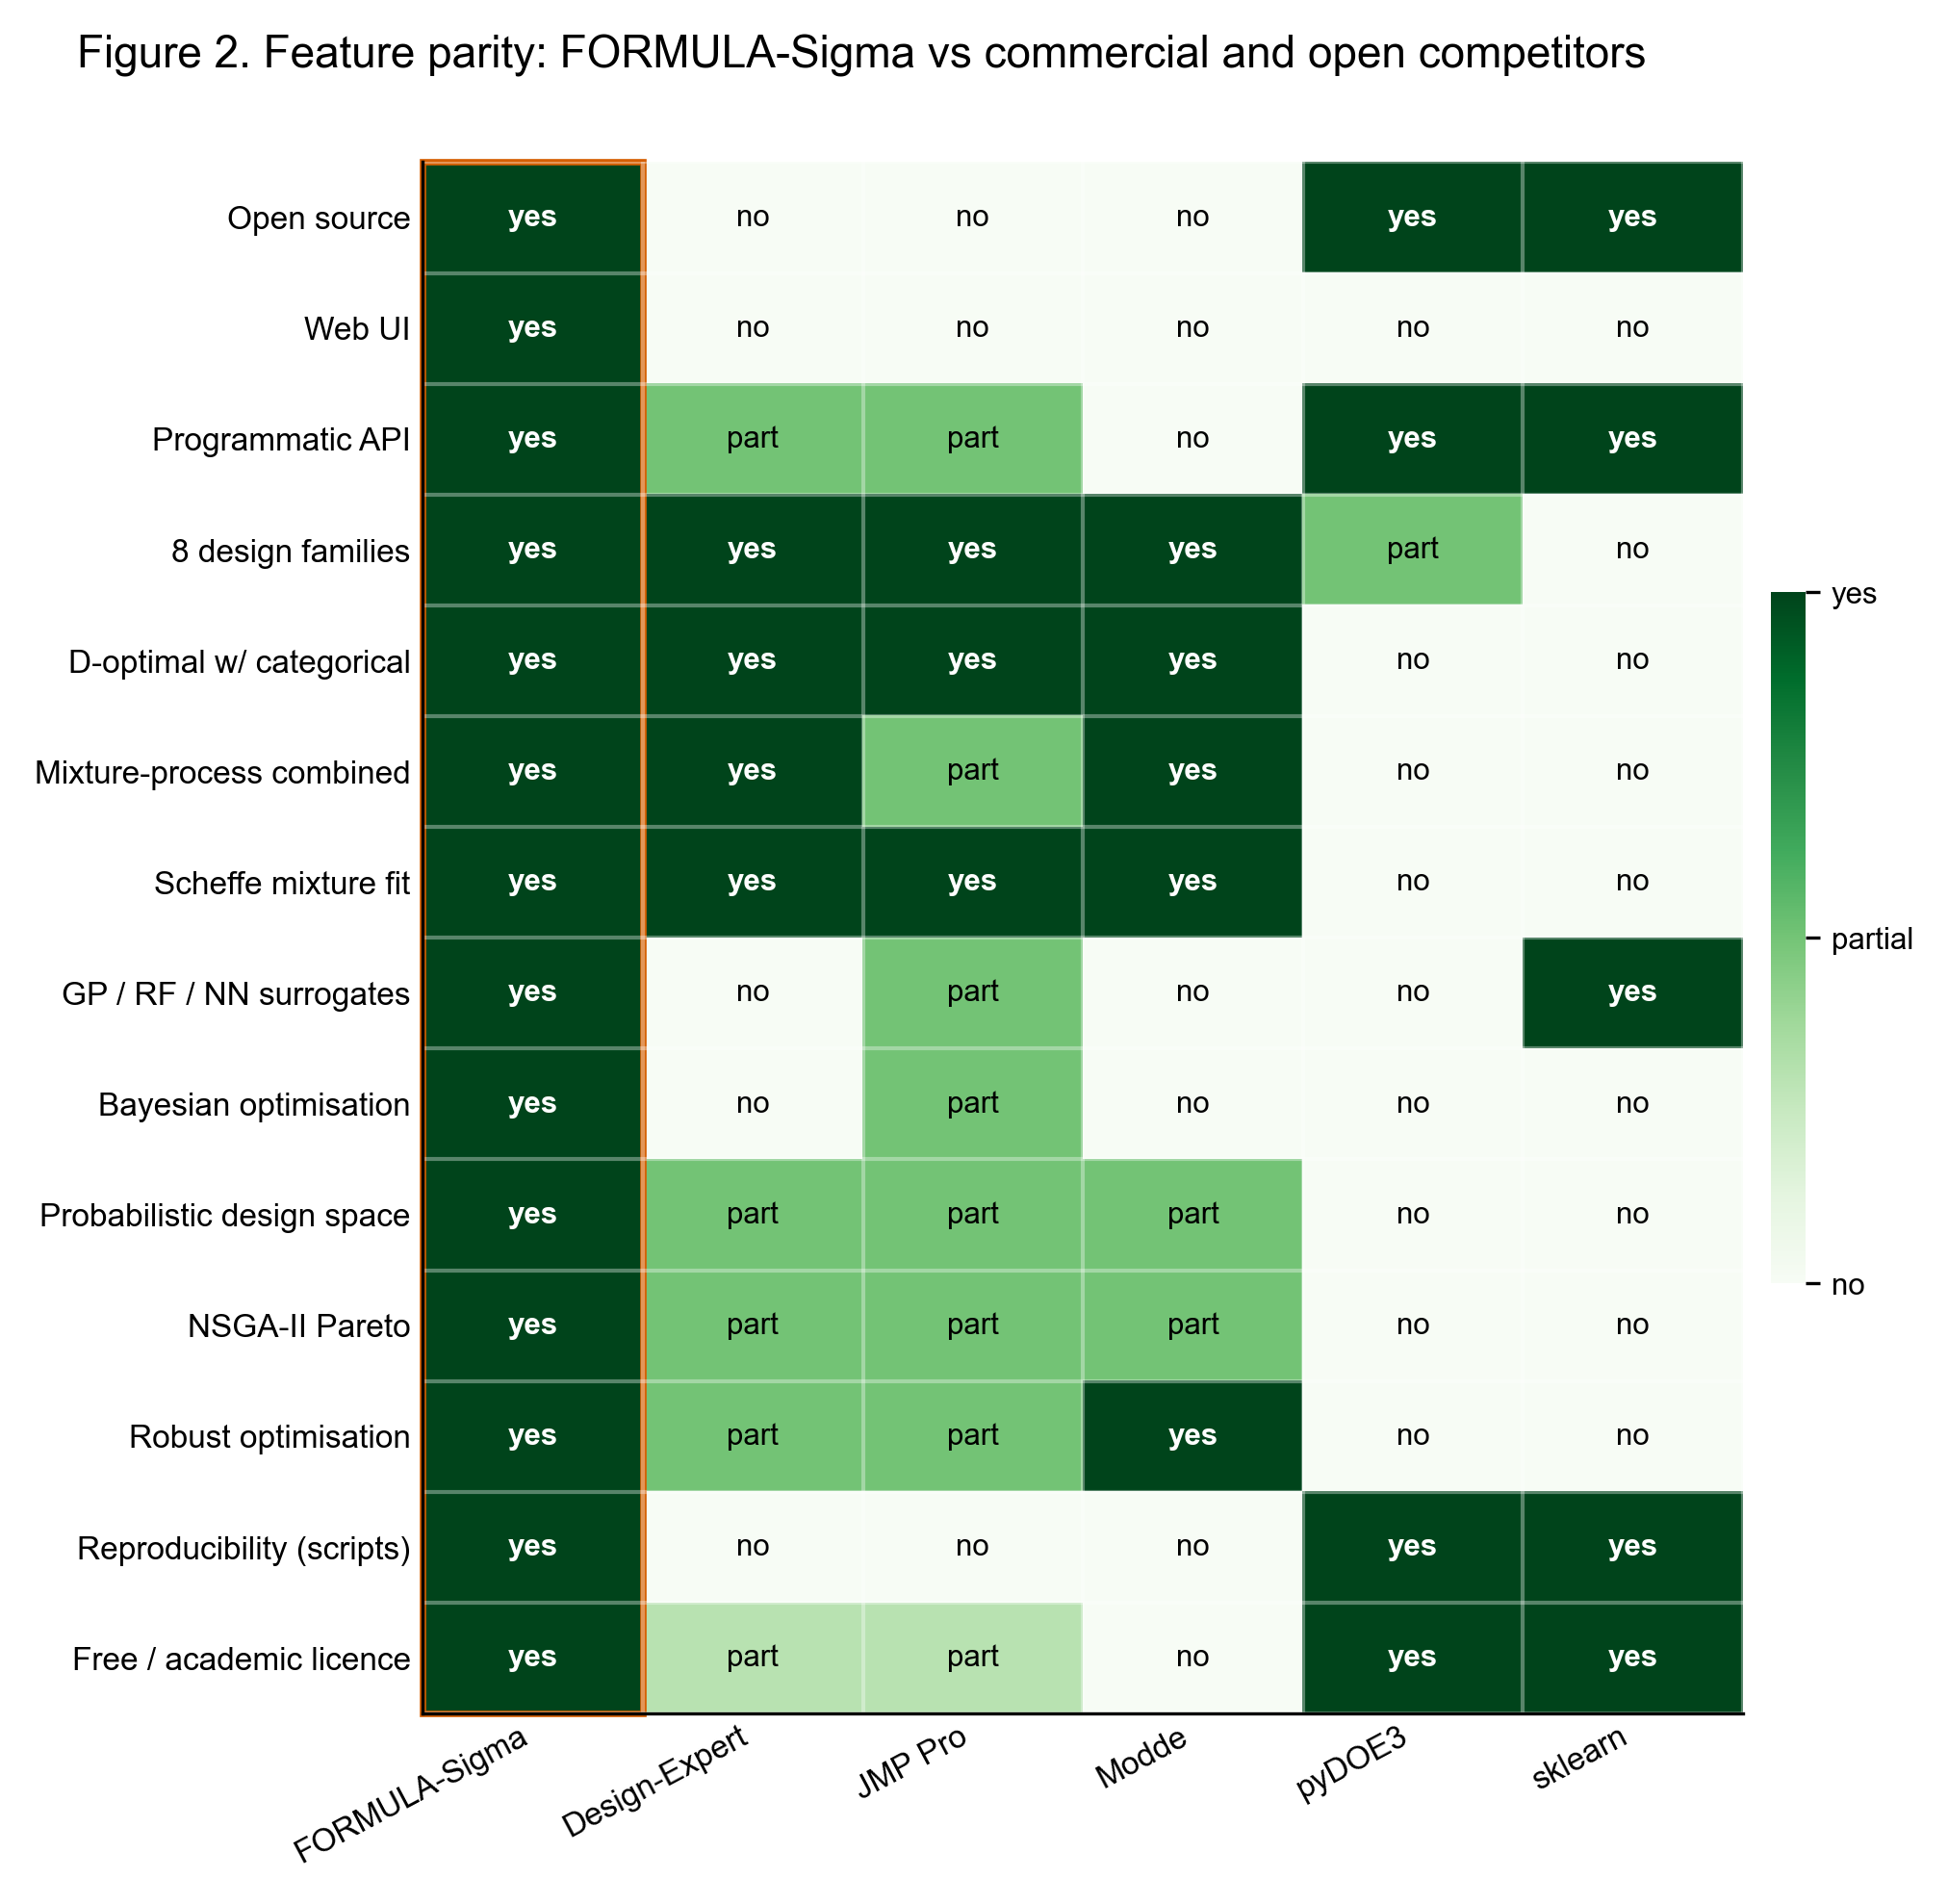
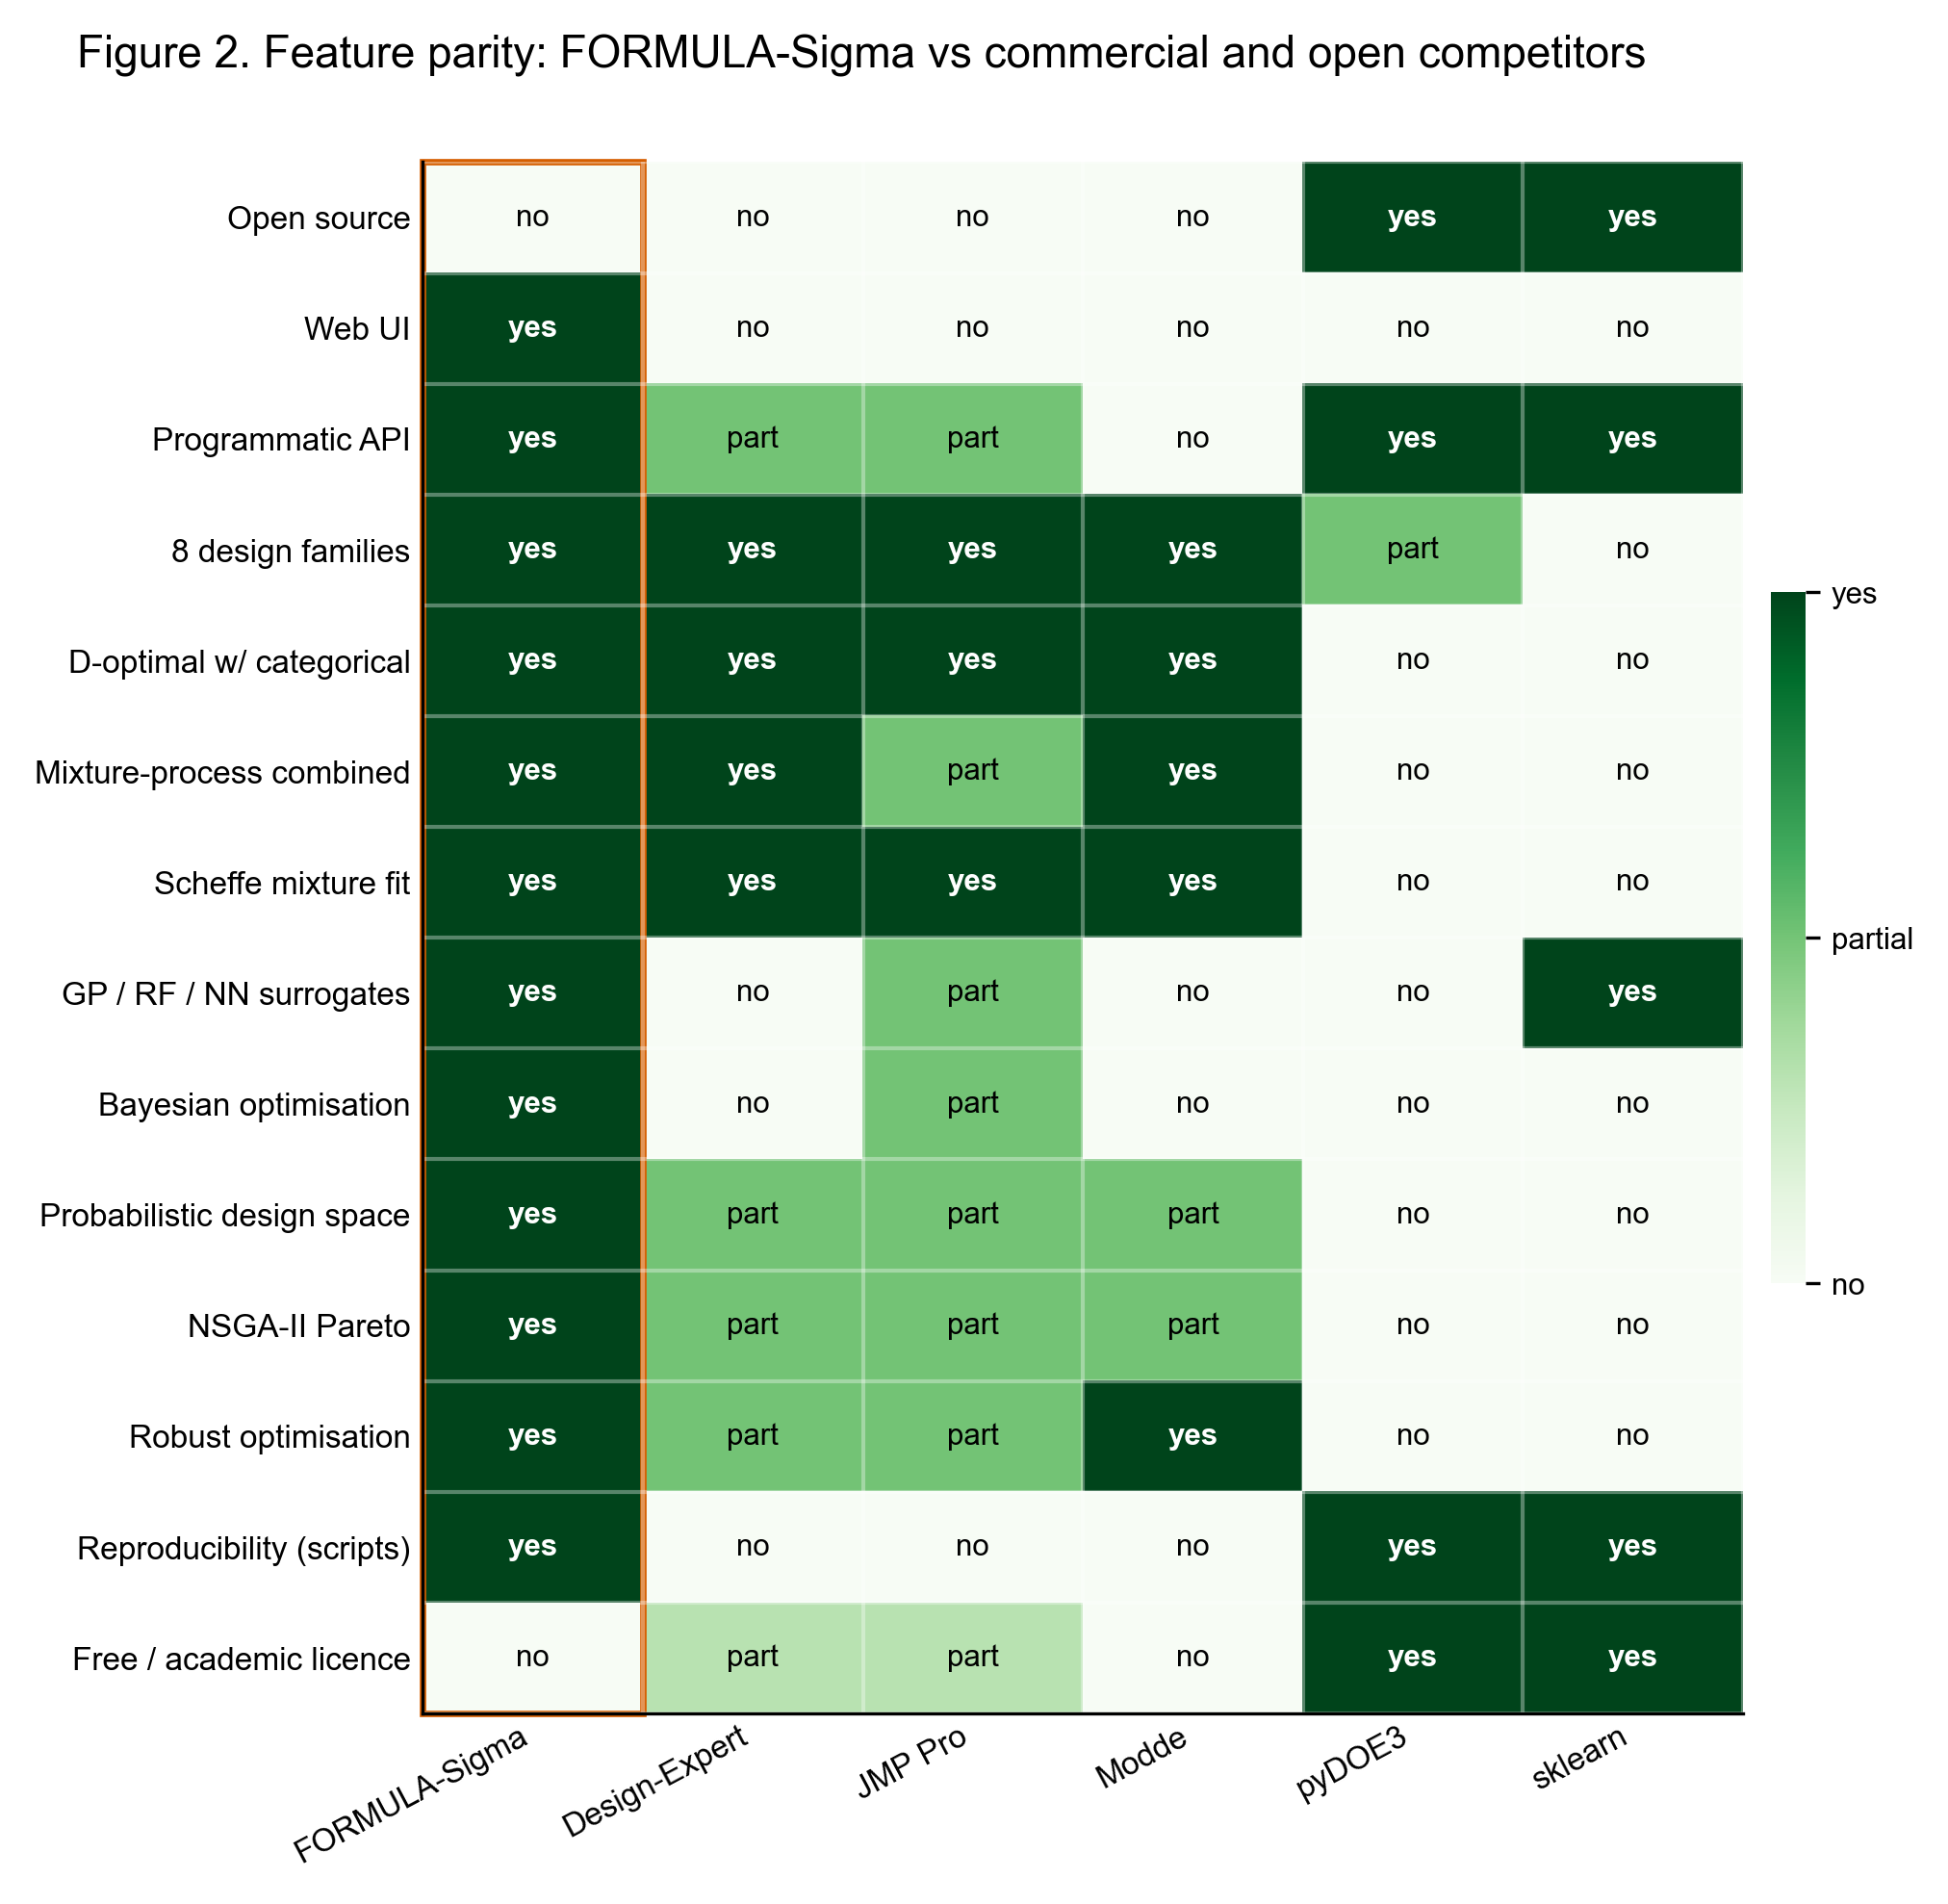
Fix case-study citations: correct author names and PMC identifiers
Verified all five retrospective case sources against PubMed/PMC:
- Case 1: corrected "Sharma 2020" to Farooqi et al. 2020 (PMC7705261 is the
  Farooqi metoclopramide osmotic-pump CCD; the data match its published optimum)
- Case 2: corrected PMC9505712 to PMC9695558 (Arif et al. 2022)
- Case 3: corrected PMC10301437 to PMC10458560 (Boscolo et al. 2023)
- Case 4: corrected PMC9559089 to PMC9477486 (Nemr et al. 2022)
- Case 1b unchanged (Akhtar et al. 2024, PMC10837631)

Also: removed leaked internal dev paths and stale audit reference from the data
README, and corrected the Open source / Free feature-matrix rows (the platform
is proprietary).

Changed region(s): [[0.2179, 0.0617, 0.3424, 0.1542], [0.2179, 0.8327, 0.3424, 0.9252]]

diff --git a/04_experiments/figures/build_main_figures.py b/04_experiments/figures/build_main_figures.py
@@ -1,5 +1,5 @@
 """Generate the 6 manuscript main figures in this file (publication-quality layout).
-PRISMA (Figure 4) and Sharma anomaly (Figure 6) live in their own builders.
+PRISMA (Figure 4) and Farooqi anomaly (Figure 6) live in their own builders.
 
 F1  Platform architecture (layered diagram)
 F2  Competitor feature comparison heatmap
@@ -103,7 +103,7 @@ def fig1_architecture():
 def fig2_competitor_heatmap():
     tools = ["FORMULA-Sigma", "Design-Expert", "JMP Pro", "Modde", "pyDOE3", "sklearn"]
     rows = [
-        ("Open source",                  [1, 0, 0, 0, 1, 1]),
+        ("Open source",                  [0, 0, 0, 0, 1, 1]),
         ("Web UI",                       [1, 0, 0, 0, 0, 0]),
         ("Programmatic API",             [1, 0.5, 0.5, 0, 1, 1]),
         ("8 design families",            [1, 1, 1, 1, 0.5, 0]),
@@ -116,7 +116,7 @@ def fig2_competitor_heatmap():
         ("NSGA-II Pareto",               [1, 0.5, 0.5, 0.5, 0, 0]),
         ("Robust optimisation",          [1, 0.5, 0.5, 1, 0, 0]),
         ("Reproducibility (scripts)",    [1, 0, 0, 0, 1, 1]),
-        ("Free / academic licence",      [1, 0.3, 0.3, 0, 1, 1]),
+        ("Free / academic licence",      [0, 0.3, 0.3, 0, 1, 1]),
     ]
     labels = [r[0] for r in rows]
     M = np.array([r[1] for r in rows])
@@ -208,7 +208,7 @@ def fig3_cross_tool():
 def fig4_case_panel():
     e02 = paths.RESULTS / "e02"
     cases = [
-        ("case1_sharma",  "Case 1: Sharma 2020 (CCD)", "case1_summary.csv"),
+        ("case1_sharma",  "Case 1: Farooqi 2020 (CCD)", "case1_summary.csv"),
         ("case2_arif",    "Case 2: Arif 2022 (D-opt mix-proc)", "case2_summary.csv"),
         ("case3_boscolo", "Case 3: Boscolo 2023 (BBD)", "case3_summary.csv"),
         ("case4_nemr",    "Case 4: Nemr 2022 (D-opt categorical)", "case4_summary.csv"),

diff --git a/04_experiments/e02_retrospective/case1_sharma/reproduce.py b/04_experiments/e02_retrospective/case1_sharma/reproduce.py
@@ -1,4 +1,4 @@
-"""e02 case 1 - Sharma 2020 CCD osmotic pump CR tablet (REPRODUCTION).
+"""e02 case 1 - Farooqi 2020 CCD osmotic pump CR tablet (REPRODUCTION).
 
 Per the diagnostic in case1_diagnostic.md, the published Table 4 main-
 effect equations do NOT predict the published Table 1 response values
@@ -128,7 +128,7 @@ def main():
 
     # Also write a published-equations diagnostic (kept as evidence)
     diag = []
-    diag.append("# Sharma 2020 published-equation diagnostic")
+    diag.append("# Farooqi 2020 published-equation diagnostic")
     diag.append("")
     diag.append("The published Table 4 main-effect equations do NOT predict")
     diag.append("the published Table 1 response values. Diagnostic numbers:")
@@ -155,7 +155,7 @@ def main():
         extra={"n_responses": 4, "outlier_excluded": "F-19",
                "fit_form": "full quadratic"})
 
-    print("Sharma 2020 reproduction (full quadratic, F-19 excluded):")
+    print("Farooqi 2020 reproduction (full quadratic, F-19 excluded):")
     for r in rows:
         print("  ", "  ".join(str(c) for c in r))
     print(f"  -> {csv_path}")

diff --git a/04_experiments/figures/build_prisma_figure.py b/04_experiments/figures/build_prisma_figure.py
@@ -126,9 +126,9 @@ top4, bot4 = stage_box(
     y=5.0, header_h=0.55, body_h=1.6,
     header="4.  Inclusion in retrospective benchmark",
     body="4 primary picks (one per design slot):\n"
-         "  - Kotamarthy 2022 (CCD)  ->  SWAPPED to Sharma 2020\n"
+         "  - Kotamarthy 2022 (CCD)  ->  SWAPPED to Farooqi 2020\n"
          "       (Kotamarthy per-run data was figure-only;\n"
-         "        Sharma has both per-run table + polynomial T4)\n"
+         "        Farooqi has both per-run table + polynomial T4)\n"
          "  - Arif 2022 (D-optimal mixture-process, NLC)\n"
          "  - Boscolo 2023 (BBD, UDCA freeze-dried NS)\n"
          "  - Nemr 2022 (D-optimal categorical, ocular bilosomes)",
@@ -142,7 +142,7 @@ top5, bot5 = stage_box(
     y=2.4, header_h=0.55, body_h=1.0,
     header="5.  Final retrospective dataset",
     body="5 cases (4 primary + 1 supporting):\n"
-         "Sharma, Arif, Boscolo, Nemr +  Akhtar 2024 bilayer\n"
+         "Farooqi, Arif, Boscolo, Nemr +  Akhtar 2024 bilayer\n"
          "(supporting demonstration of coupled-design analysis)",
     header_fc=W["sky"])
 count_chip(2.65, "5", "cases analysed", fc="#B3E5FC")

diff --git a/04_experiments/e02_retrospective/99_summary_table.py b/04_experiments/e02_retrospective/99_summary_table.py
@@ -14,12 +14,12 @@ def main():
 
     rows = [["case", "design_family", "n_runs", "best_R2", "key_finding"]]
 
-    # Case 1 Sharma
+    # Case 1 Farooqi
     p = base / "case1_sharma" / "case1_detail.json"
     if p.exists():
         d = json.loads(p.read_text())
         rows.append([
-            "case1 Sharma 2020", "CCD rotatable 3F", 19,
+            "case1 Farooqi 2020", "CCD rotatable 3F", 19,
             f"{max(v['R2'] for v in d.values() if isinstance(v, dict) and 'R2' in v):.4f}",
             "Refit recovers Y1-Y4 R^2 0.90-0.96; published main-effect equations diverge from data",
         ])

diff --git a/04_experiments/figures/build_sharma_anomaly_figure.py b/04_experiments/figures/build_sharma_anomaly_figure.py
@@ -1,4 +1,4 @@
-"""Figure 6 - Sharma 2020 published-equation anomaly.
+"""Figure 6 - Farooqi 2020 published-equation anomaly.
 
 Compares predictions of three things for the same 19 design points:
   (a) Author's published Table 5 main-effect (Y1-Y3) and full quadratic (Y4)
@@ -126,7 +126,7 @@ handles, labels_ = axes[0].get_legend_handles_labels()
 fig.legend(handles, labels_, loc="upper center", ncol=3,
             fontsize=9, frameon=False, bbox_to_anchor=(0.5, 0.965))
 
-fig.suptitle("Figure 6. Sharma 2020 published equation vs FORMULA-Sigma refit "
+fig.suptitle("Figure 6. Farooqi 2020 published equation vs FORMULA-Sigma refit "
               "vs observed data  (n = 19)",
               fontsize=11.5, y=0.998)
 fig.subplots_adjust(left=0.05, right=0.98, top=0.83, bottom=0.13, wspace=0.32)

diff --git a/03_data/processed/README.md b/03_data/processed/README.md
@@ -1,6 +1,6 @@
 # 03_data/processed - per-case extracted CSVs
 
-Machine-readable extractions from the source PMC XMLs. Every case
+Machine-readable extractions from the source publications. Every case
 folder follows a consistent structure:
 
 ```
@@ -14,23 +14,16 @@ case<N>_<slug>/
   [case-specific extras]     coefficients, kinetics, ANOVA, stability
 ```
 
-## Live cases
+## Cases
 
-| Folder                          | Design family                        | Runs |
-|---------------------------------|--------------------------------------|------|
-| case1_tablet_ccd/               | rotatable CCD                        | 20   |
-| case1b_akhtar_bilayer/          | bilayer dual rotatable CCD           | 10+10|
-| case2_nanoparticle_mixture/     | D-optimal combined mixture-process   | 22   |
-| case3_lyophilization_bbd/       | Box-Behnken                          | 15   |
-| case4_optimization/             | D-optimal w/ categorical             | 22   |
+| Folder                      | Design family                      | Runs  |
+|-----------------------------|------------------------------------|-------|
+| case1_tablet_ccd/           | rotatable CCD                      | 20    |
+| case1b_akhtar_bilayer/      | bilayer dual rotatable CCD         | 10+10 |
+| case2_nanoparticle_mixture/ | D-optimal combined mixture-process | 22    |
+| case3_lyophilization_bbd/   | Box-Behnken                        | 15    |
+| case4_optimization/         | D-optimal w/ categorical           | 22    |
 
-All design + response CSVs are deterministic outputs of:
-- `D:\tmp\fx_build_case1_sharma.py`     (Sharma)
-- `D:\tmp\fx_build_case1b_akhtar.py`    (Akhtar 1b)
-- `D:\tmp\fx_build_case_packs.py`       (Arif, Boscolo, Nemr)
-
-## _audit/ - obsolete extractions kept for audit
-
-- `_audit/obsolete_picks/case1_kotamarthy/` - Kotamarthy CSVs built
-  before swap. Includes a `case1_responses.csv` with ranges + named
-  extreme runs that documents WHY full reproduction was infeasible.
+Each case folder's `case<N>_ingestion.yaml` records the source publication
+(PMC identifier and DOI) and the per-field provenance. See the repository
+`README.md` and `LICENSE-DATA.md` for the full citation list and licensing.

diff --git a/LICENSE-DATA.md b/LICENSE-DATA.md
@@ -2,7 +2,7 @@
 
 The five retrospective case datasets distributed with this repository (the
 cleaned per-run design and response CSVs, the factor/response definitions, and
-the ingestion YAML provenance files for the Sharma 2020, Akhtar 2024, Arif
+the ingestion YAML provenance files for the Farooqi 2020, Akhtar 2024, Arif
 2022, Boscolo 2023 and Nemr 2022 cases) are licensed under the
 
 **Creative Commons Attribution 4.0 International License (CC-BY-4.0)**
@@ -21,11 +21,11 @@ underlying numerical values were extracted. Those values are reproduced from
 the following publicly accessible PubMed Central records and remain subject to
 the rights of their original authors and publishers:
 
-- Case 1  - Sharma et al. 2020   - PMC7705261
+- Case 1  - Farooqi et al. 2020   - PMC7705261
 - Case 1b - Akhtar et al. 2024    - PMC10837631
-- Case 2  - Arif et al. 2022      - PMC9505712
-- Case 3  - Boscolo et al. 2023   - PMC10301437
-- Case 4  - Nemr et al. 2022      - PMC9559089
+- Case 2  - Arif et al. 2022      - PMC9695558
+- Case 3  - Boscolo et al. 2023   - PMC10458560
+- Case 4  - Nemr et al. 2022      - PMC9477486
 
 Anyone reusing these datasets should cite the original studies in addition to
 this repository.

diff --git a/README.md b/README.md
@@ -55,7 +55,7 @@ attribution requirements.
   e02_retrospective/  Reproduction of the five published case studies
   e03_synthetic/    Synthetic ground-truth benchmarks (BO, PDS, robust, Pareto)
   e04_reproducibility/  Hash-pinned outputs + verify_hashes.py + make_paper.sh
-  figures/          Builders for Figures 1-7, the Sharma anomaly figure, and the PRISMA figure
+  figures/          Builders for Figures 1-7, the Farooqi anomaly figure, and the PRISMA figure
   tests/            pytest smoke + unit tests
 05_results/         Hash-pinned reference outputs (CSV / JSON / regenerated figures)
 figures_static/     Figure 8, supplementary figures and graphical abstract (platform-rendered, static)
@@ -94,11 +94,11 @@ and `verify_hashes.py` fails if any artefact drifts.
 
 | Case | Study | PMC record |
 |------|-------|-----------|
-| 1  | Sharma et al. 2020 (osmotic-pump CR tablet, CCD)        | PMC7705261 |
+| 1  | Farooqi et al. 2020 (osmotic-pump CR tablet, CCD)        | PMC7705261 |
 | 1b | Akhtar et al. 2024 (bilayer SR+IR tablet)               | PMC10837631 |
-| 2  | Arif et al. 2022 (levosulpiride NLC, mixture-process)   | PMC9505712 |
-| 3  | Boscolo et al. 2023 (UDCA nanosuspension, BBD)          | PMC10301437 |
-| 4  | Nemr et al. 2022 (ocular bilosomes, categorical D-optimal) | PMC9559089 |
+| 2  | Arif et al. 2022 (levosulpiride NLC, mixture-process)   | PMC9695558 |
+| 3  | Boscolo et al. 2023 (UDCA nanosuspension, BBD)          | PMC10458560 |
+| 4  | Nemr et al. 2022 (ocular bilosomes, categorical D-optimal) | PMC9477486 |
 
 Please cite the original studies in addition to this repository when reusing the data.
 

diff --git a/05_results/e02/case1_sharma/case1_diagnostic.md b/05_results/e02/case1_sharma/case1_diagnostic.md
@@ -1,4 +1,4 @@
-# Sharma 2020 published-equation diagnostic
+# Farooqi 2020 published-equation diagnostic
 
 The published Table 4 main-effect equations do NOT predict
 the published Table 1 response values. Diagnostic numbers: